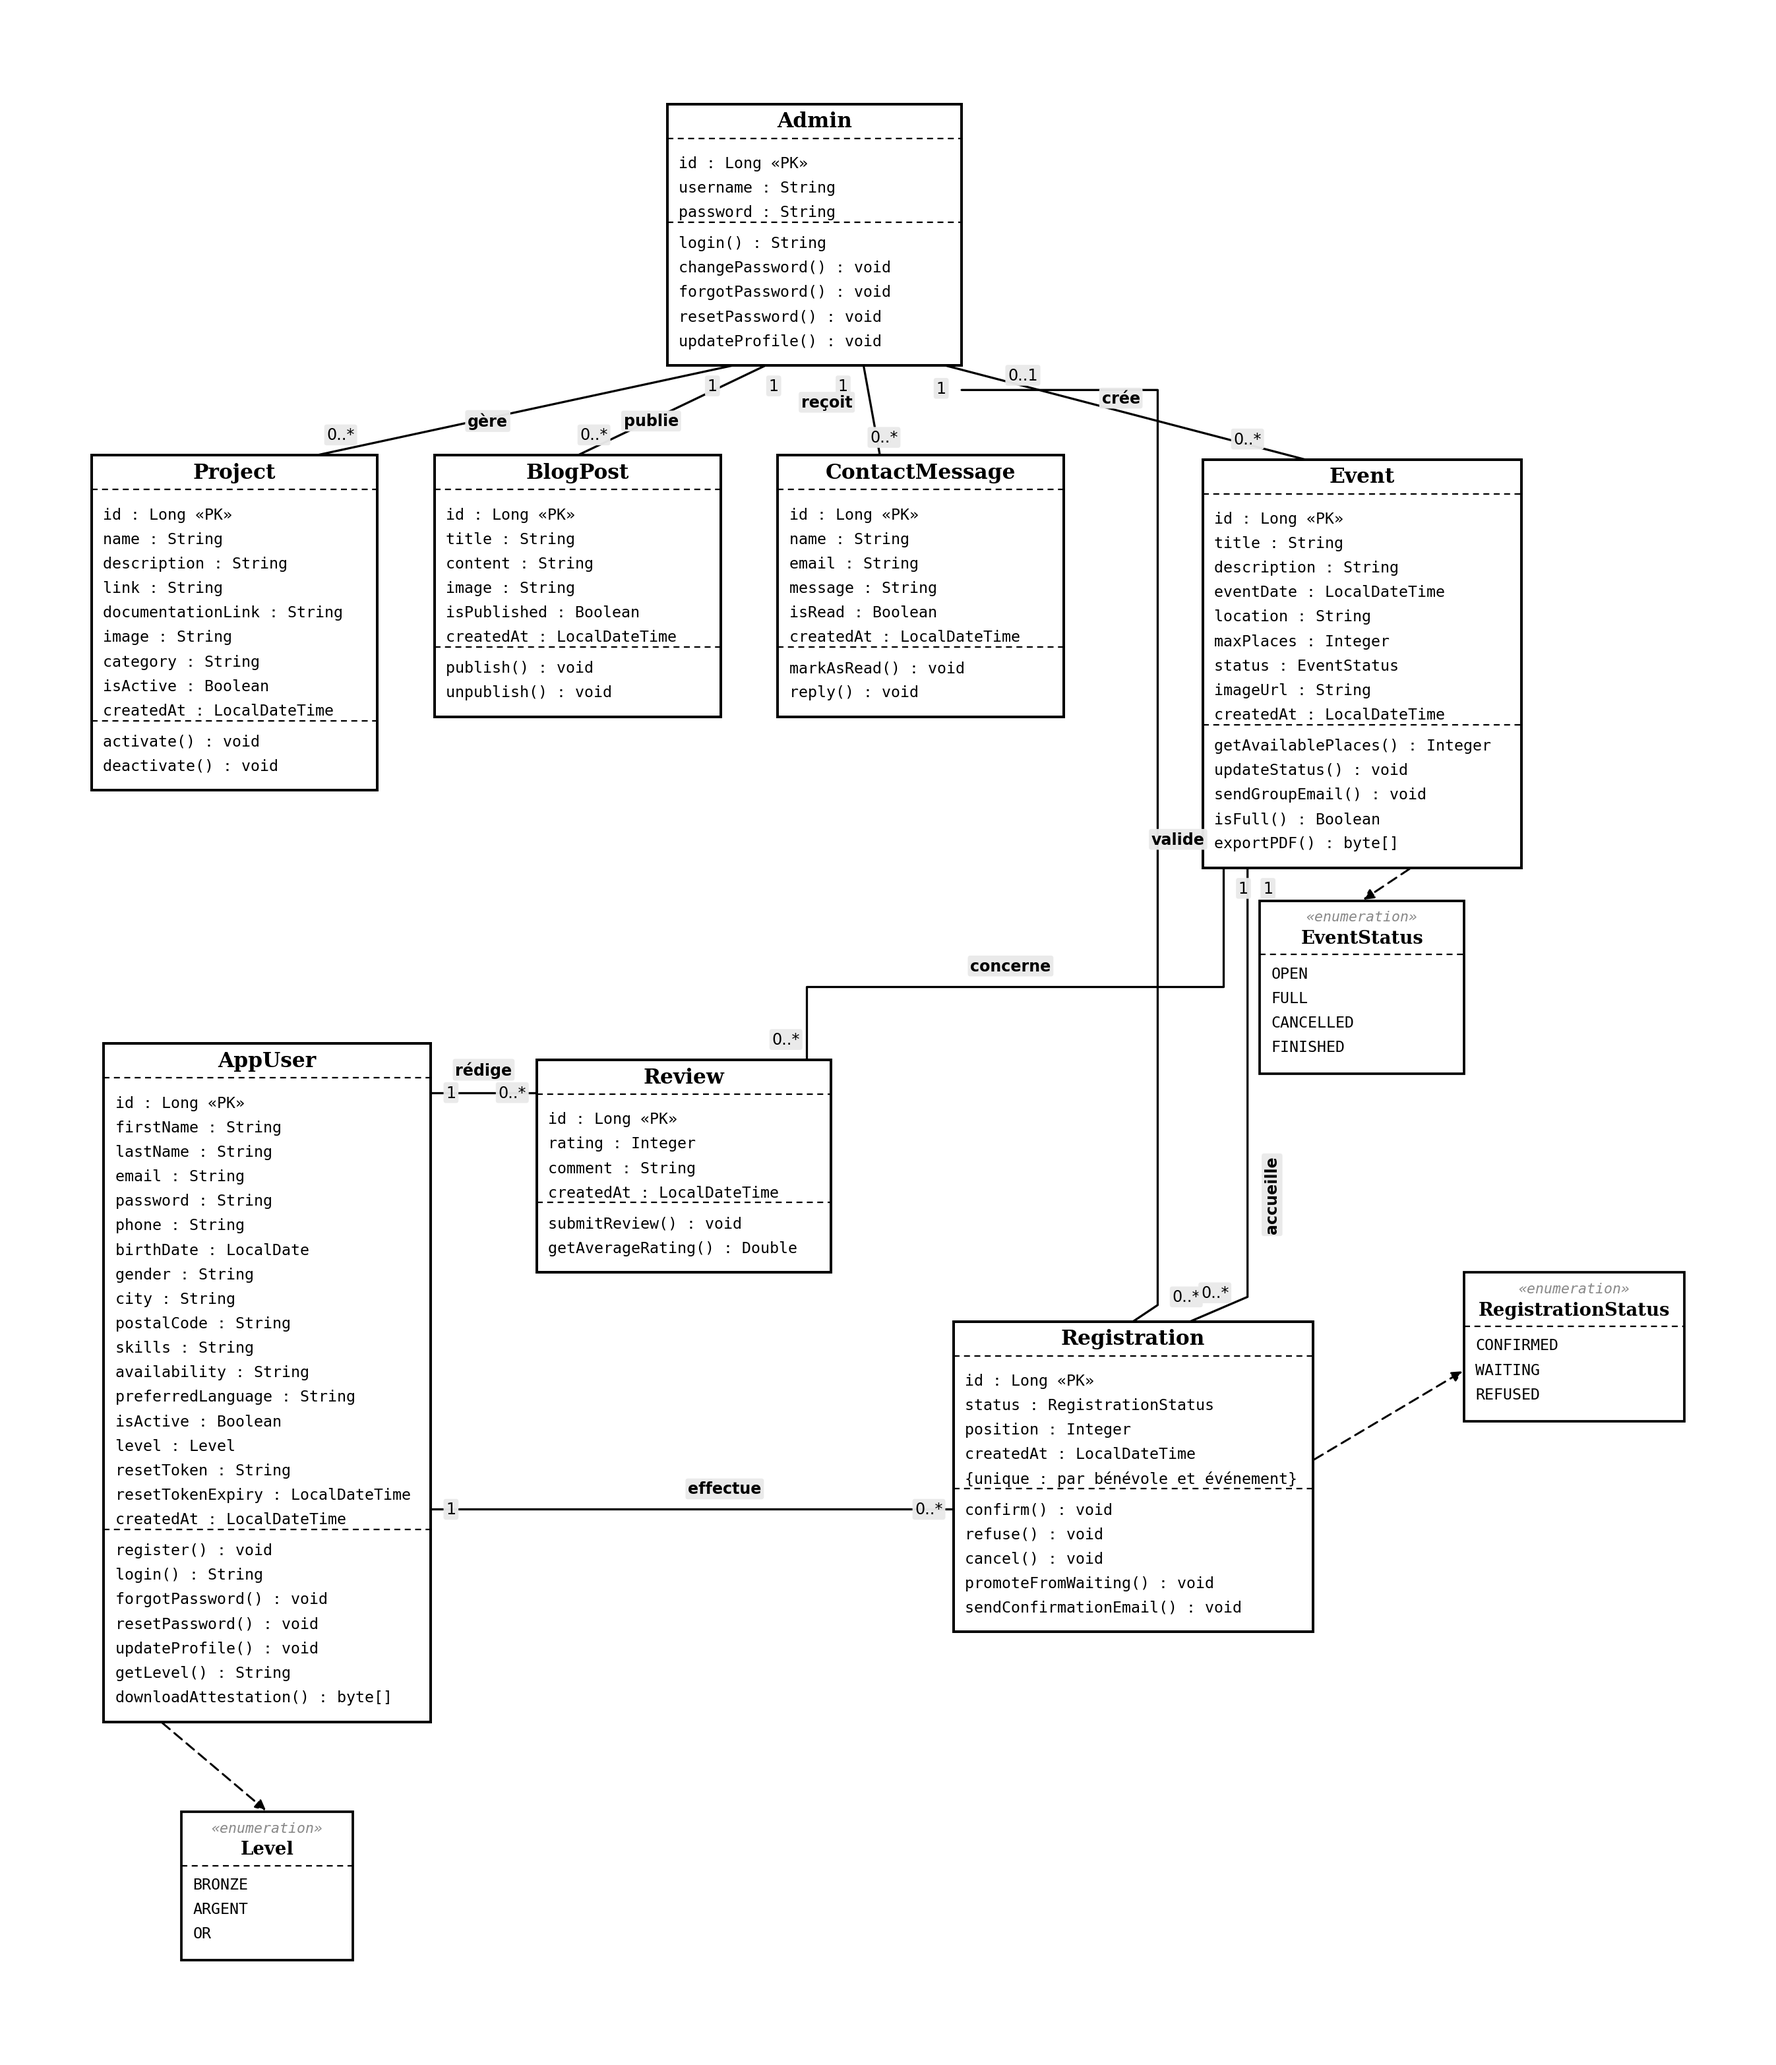
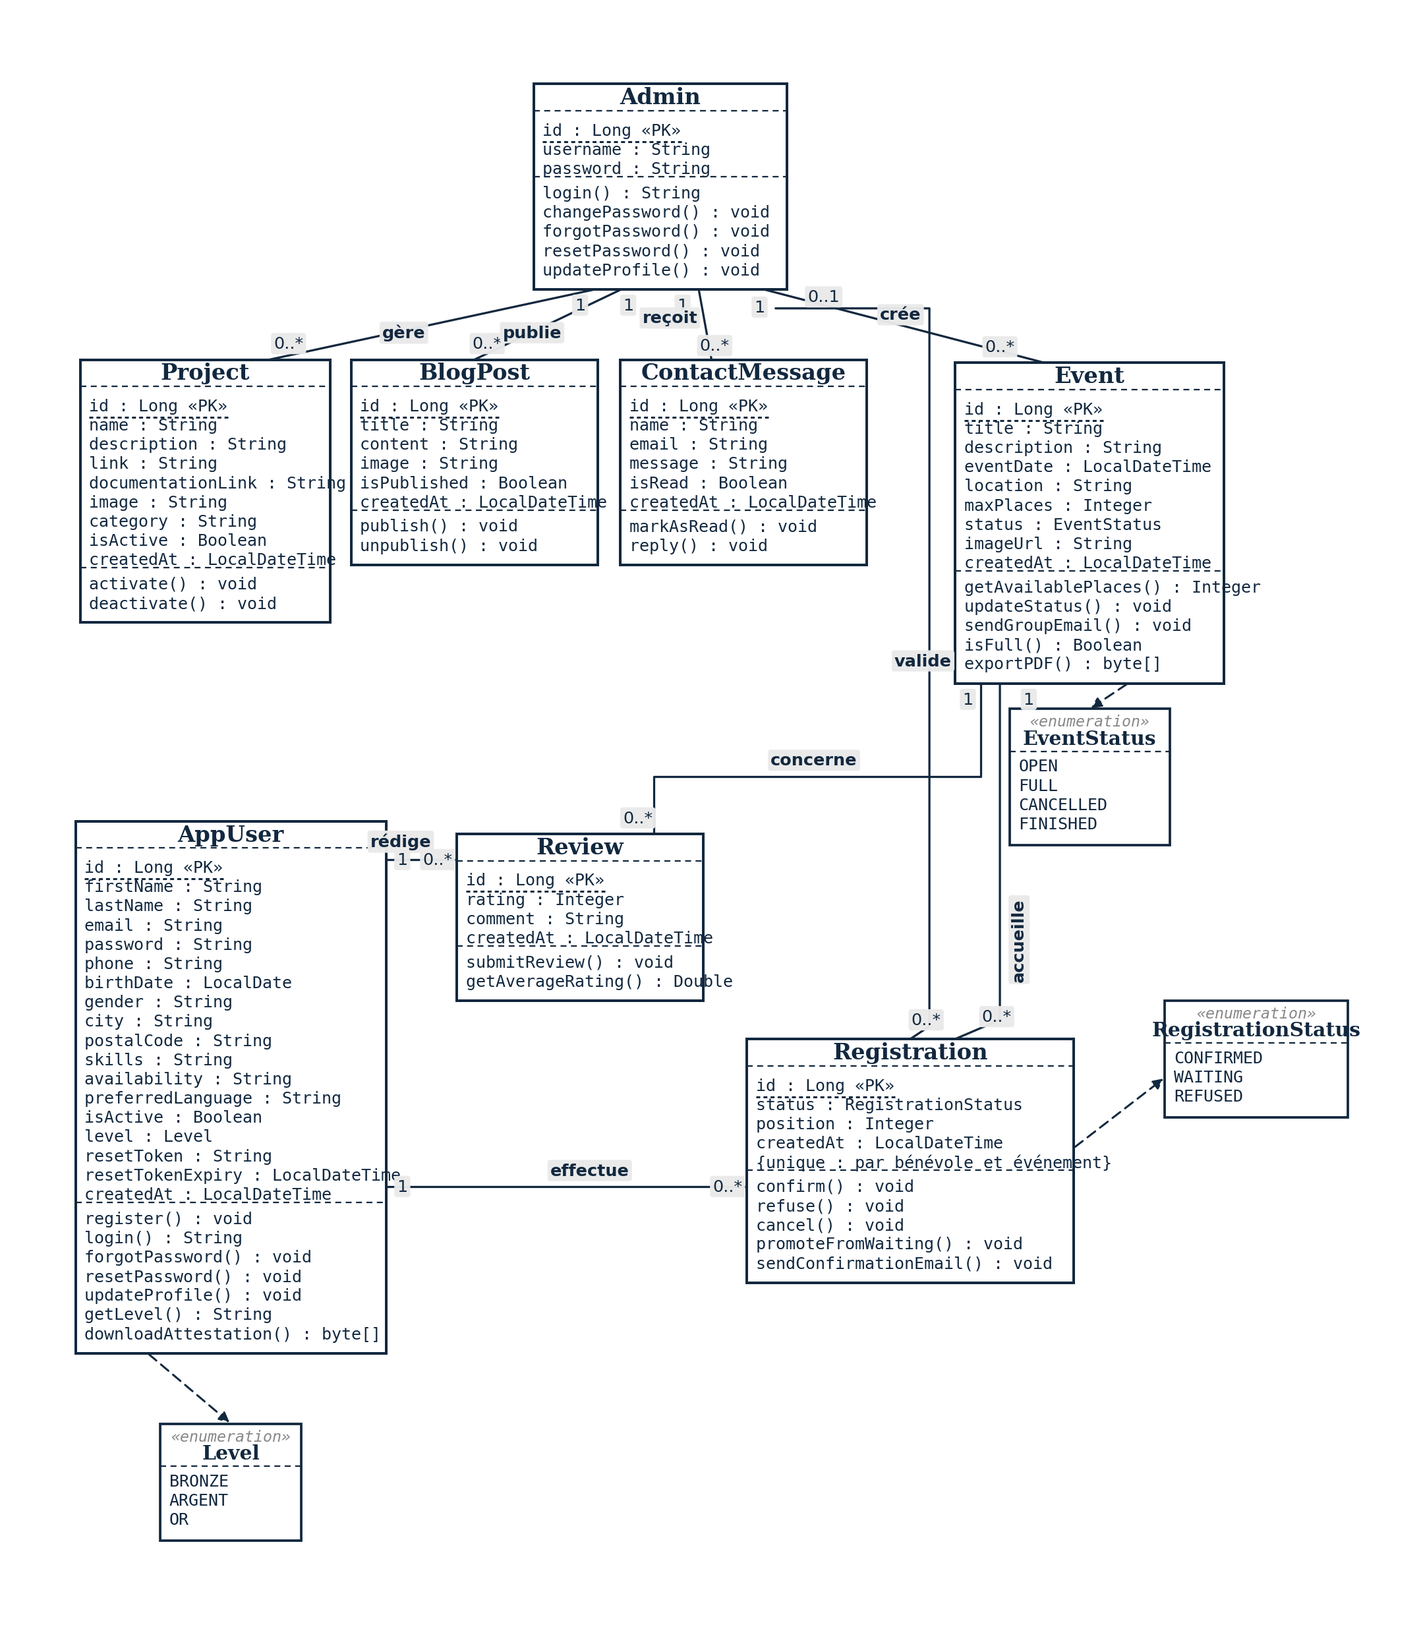
Rend le diagramme de classes lisible et souligne les clés primaires
- Police et largeur des boîtes augmentées pour une lecture confortable (plus de texte minuscule illisible)
- Toutes les lignes d'attributs/méthodes élargies pour ne plus jamais dépasser le cadre de leur classe
- L'attribut identifiant (id : Long «PK») de chaque classe est désormais souligné en pointillés, conformément à la convention UML
- Étiquettes de multiplicité auparavant collées entre elles (Event/EventStatus/Registration) réespacées

diff --git a/memoire_assets/content_persistance.js b/memoire_assets/content_persistance.js
@@ -10,7 +10,7 @@ const persistance = [
   h3("2.2.1. Diagramme de classes"),
   p("Le diagramme de classes ci-dessous modélise la structure statique de l'application : huit entités, leurs attributs, leurs méthodes et les associations qui les relient. Conformément aux consignes, les clés étrangères ne sont pas dupliquées comme attributs dans les classes : seules les associations nommées, portées par les liens entre classes, expriment ces relations. S'agissant d'un sujet personnel construit après le stage, ce diagramme a été soumis à Madame Marie-Christine Namur et validé par elle avant le début du développement ; il n'a plus été modifié depuis, conformément à cette validation."),
   p([rt("Admin, Project, BlogPost et ContactMessage"), rt(" proviennent du site existant, livré durant le stage. "), rt("AppUser, Event, Registration et Review"), rt(" sont les quatre entités créées spécifiquement pour ce TFE. Trois énumérations (EventStatus, Level, RegistrationStatus) typent les attributs à valeurs fermées et sont reliées par une dépendance en trait pointillé aux classes qui les utilisent.")]),
-  ...imgPara(SCR + "diagramme_classes.png", 580, 674, "Figure 2 — Diagramme de classes du module bénévoles et événements"),
+  ...imgPara(SCR + "diagramme_classes.png", 600, 685, "Figure 2 — Diagramme de classes du module bénévoles et événements"),
 
   p("Les neuf associations du diagramme se lisent comme suit : un Admin gère plusieurs Project, publie plusieurs BlogPost, reçoit plusieurs ContactMessage et crée plusieurs Event (multiplicités 1 et 0..*) ; un Admin valide 0 ou plusieurs Registration (multiplicités 0..1 et 0..* côté Registration, puisqu'une inscription n'a pas encore d'administrateur validateur tant qu'elle est en attente) ; un AppUser rédige plusieurs Review et effectue plusieurs Registration ; enfin, un Event accueille plusieurs Registration et concerne plusieurs Review."),
 

diff --git a/memoire_assets/gen_class_diagram.py b/memoire_assets/gen_class_diagram.py
@@ -3,8 +3,8 @@ matplotlib.use("Agg")
 import matplotlib.pyplot as plt
 from matplotlib.patches import Rectangle, FancyArrowPatch
 
-NAVY = "#000000"
-TEXT = "#000000"
+NAVY = "#12283F"
+TEXT = "#12283F"
 LABEL_BG = "#EAEAEA"
 
 FONT_NAME = "DejaVu Serif"
@@ -13,6 +13,8 @@ FONT_MONO = "DejaVu Sans Mono"
 LINE_H = 0.30
 NAME_H = 0.42
 PAD = 0.14
+
+UNDERLINE_TEXTS = []
 
 def class_box(ax, xc, y_top, name, attrs, methods, width, stereotype=None):
     n_attr, n_meth = len(attrs), len(methods)
@@ -24,10 +26,10 @@ def class_box(ax, xc, y_top, name, attrs, methods, width, stereotype=None):
                              edgecolor=NAVY, linewidth=1.6, zorder=4))
     y = y_top
     if stereotype:
-        ax.text(xc, y - 0.22, stereotype, ha="center", va="center", fontsize=9.5,
+        ax.text(xc, y - 0.22, stereotype, ha="center", va="center", fontsize=10,
                  color="#888888", style="italic", family=FONT_MONO, zorder=5)
         y -= 0.42
-    ax.text(xc, y - NAME_H / 2, name, ha="center", va="center", fontsize=12.5,
+    ax.text(xc, y - NAME_H / 2, name, ha="center", va="center", fontsize=13.5,
              fontweight="bold", color=NAVY, family=FONT_NAME, zorder=5)
     y -= NAME_H
     if attrs:
@@ -35,15 +37,17 @@ def class_box(ax, xc, y_top, name, attrs, methods, width, stereotype=None):
     y -= PAD * 0.5
     for a in attrs:
         y -= LINE_H
-        ax.text(x0 + 0.14, y + LINE_H * 0.22, a, ha="left", va="center", fontsize=9.3,
+        t = ax.text(x0 + 0.14, y + LINE_H * 0.22, a, ha="left", va="center", fontsize=10,
                  color=TEXT, family=FONT_MONO, zorder=5)
+        if "«PK»" in a:
+            UNDERLINE_TEXTS.append(t)
     if attrs and methods:
         y -= PAD * 0.4
         ax.plot([x0, x0 + width], [y, y], color=NAVY, linewidth=0.9, linestyle=(0, (4, 3)), zorder=5)
         y -= PAD * 0.15
     for m in methods:
         y -= LINE_H
-        ax.text(x0 + 0.14, y + LINE_H * 0.22, m, ha="left", va="center", fontsize=9.3,
+        ax.text(x0 + 0.14, y + LINE_H * 0.22, m, ha="left", va="center", fontsize=10,
                  color=TEXT, family=FONT_MONO, zorder=5)
     return dict(xc=xc, top=y_top, bot=y_bot, x0=x0, x1=x0 + width, w=width, h=height,
                 mid=(y_top + y_bot) / 2)
@@ -54,20 +58,20 @@ def enum_box(ax, xc, y_top, name, values, width=2.3):
     y_bot = y_top - height
     ax.add_patch(Rectangle((x0, y_bot), width, height, facecolor="white",
                              edgecolor=NAVY, linewidth=1.5, zorder=4))
-    ax.text(xc, y_top - 0.20, "«enumeration»", ha="center", va="center", fontsize=8.6,
+    ax.text(xc, y_top - 0.20, "«enumeration»", ha="center", va="center", fontsize=9.3,
              color="#888888", style="italic", family=FONT_MONO, zorder=5)
-    ax.text(xc, y_top - 0.46, name, ha="center", va="center", fontsize=11,
+    ax.text(xc, y_top - 0.46, name, ha="center", va="center", fontsize=12,
              fontweight="bold", color=NAVY, family=FONT_NAME, zorder=5)
     y = y_top - 0.66
     ax.plot([x0, x0 + width], [y, y], color=NAVY, linewidth=0.9, linestyle=(0, (4, 3)), zorder=5)
     for v in values:
         y -= LINE_H
-        ax.text(x0 + 0.14, y + LINE_H * 0.22, v, ha="left", va="center", fontsize=9.3,
+        ax.text(x0 + 0.14, y + LINE_H * 0.22, v, ha="left", va="center", fontsize=10,
                  color=TEXT, family=FONT_MONO, zorder=5)
     return dict(xc=xc, top=y_top, bot=y_bot, x0=x0, x1=x0 + width, w=width, h=height,
                 mid=(y_top + y_bot) / 2)
 
-def tag(ax, x, y, text, fontsize=9.5, color=TEXT, bold=False, rot=0):
+def tag(ax, x, y, text, fontsize=10.2, color=TEXT, bold=False, rot=0):
     ax.text(x, y, text, ha="center", va="center", fontsize=fontsize, color=color,
              fontweight="bold" if bold else "normal", family="DejaVu Sans", zorder=7, rotation=rot,
              bbox=dict(boxstyle="round,pad=0.16", fc=LABEL_BG, ec="none", alpha=0.97))
@@ -87,37 +91,37 @@ def dependency(ax, p1, p2, rad=0.0):
     ax.add_patch(a)
 
 # ─────────────────────────────────────────────────────────────
-fig, ax = plt.subplots(figsize=(16.5, 17.5))
+fig, ax = plt.subplots(figsize=(13.0, 13.8))
 ax.axis("off")
 ax.set_aspect("equal")
 
 admin = class_box(ax, 9.0, 24.5, "Admin",
     ["id : Long «PK»", "username : String", "password : String"],
     ["login() : String", "changePassword() : void", "forgotPassword() : void",
-     "resetPassword() : void", "updateProfile() : void"], width=3.6)
+     "resetPassword() : void", "updateProfile() : void"], width=3.95)
 
 project = class_box(ax, 1.9, 20.2, "Project",
     ["id : Long «PK»", "name : String", "description : String", "link : String",
      "documentationLink : String", "image : String", "category : String",
      "isActive : Boolean", "createdAt : LocalDateTime"],
-    ["activate() : void", "deactivate() : void"], width=3.5)
+    ["activate() : void", "deactivate() : void"], width=3.9)
 
 blogpost = class_box(ax, 6.1, 20.2, "BlogPost",
     ["id : Long «PK»", "title : String", "content : String", "image : String",
      "isPublished : Boolean", "createdAt : LocalDateTime"],
-    ["publish() : void", "unpublish() : void"], width=3.5)
+    ["publish() : void", "unpublish() : void"], width=3.85)
 
 contact = class_box(ax, 10.3, 20.2, "ContactMessage",
     ["id : Long «PK»", "name : String", "email : String", "message : String",
      "isRead : Boolean", "createdAt : LocalDateTime"],
-    ["markAsRead() : void", "reply() : void"], width=3.5)
+    ["markAsRead() : void", "reply() : void"], width=3.85)
 
 event = class_box(ax, 15.7, 20.15, "Event",
     ["id : Long «PK»", "title : String", "description : String", "eventDate : LocalDateTime",
      "location : String", "maxPlaces : Integer", "status : EventStatus",
      "imageUrl : String", "createdAt : LocalDateTime"],
     ["getAvailablePlaces() : Integer", "updateStatus() : void", "sendGroupEmail() : void",
-     "isFull() : Boolean", "exportPDF() : byte[]"], width=3.9)
+     "isFull() : Boolean", "exportPDF() : byte[]"], width=4.2)
 
 event_status = enum_box(ax, 15.7, 14.75, "EventStatus", ["OPEN", "FULL", "CANCELLED", "FINISHED"], width=2.5)
 
@@ -128,21 +132,21 @@ appuser = class_box(ax, 2.3, 13.0, "AppUser",
      "preferredLanguage : String", "isActive : Boolean", "level : Level",
      "resetToken : String", "resetTokenExpiry : LocalDateTime", "createdAt : LocalDateTime"],
     ["register() : void", "login() : String", "forgotPassword() : void", "resetPassword() : void",
-     "updateProfile() : void", "getLevel() : String", "downloadAttestation() : byte[]"], width=4.0)
+     "updateProfile() : void", "getLevel() : String", "downloadAttestation() : byte[]"], width=4.85)
 
-review = class_box(ax, 7.4, 12.8, "Review",
+review = class_box(ax, 7.75, 12.8, "Review",
     ["id : Long «PK»", "rating : Integer", "comment : String", "createdAt : LocalDateTime"],
-    ["submitReview() : void", "getAverageRating() : Double"], width=3.6)
+    ["submitReview() : void", "getAverageRating() : Double"], width=3.85)
 
-level_enum = enum_box(ax, 2.3, 3.6, "Level", ["BRONZE", "ARGENT", "OR"], width=2.1)
+level_enum = enum_box(ax, 2.3, 3.6, "Level", ["BRONZE", "ARGENT", "OR"], width=2.2)
 
 registration = class_box(ax, 12.9, 9.6, "Registration",
     ["id : Long «PK»", "status : RegistrationStatus", "position : Integer",
      "createdAt : LocalDateTime", "{unique : par bénévole et événement}"],
     ["confirm() : void", "refuse() : void", "cancel() : void",
-     "promoteFromWaiting() : void", "sendConfirmationEmail() : void"], width=4.4)
+     "promoteFromWaiting() : void", "sendConfirmationEmail() : void"], width=5.1)
 
-reg_status = enum_box(ax, 18.3, 10.2, "RegistrationStatus", ["CONFIRMED", "WAITING", "REFUSED"], width=2.7)
+reg_status = enum_box(ax, 18.3, 10.2, "RegistrationStatus", ["CONFIRMED", "WAITING", "REFUSED"], width=2.85)
 
 # ═════════════════ Associations : Admin's 4 direct children ═════════════════
 straight(ax, (8.0, admin['bot']), (2.9, project['top']))
@@ -168,8 +172,8 @@ tag(ax, 12.75, 20.9, "crée", bold=True)
 # ── Admin -valide-> Registration : elbow, corridor x=13.2 (clear of Event/EventStatus) ──
 polyline(ax, [(10.8, 21.0), (13.2, 21.0), (13.2, 9.8), (12.9, registration['top'])])
 tag(ax, 11.55, 21.18, "0..1")
-tag(ax, 13.55, 9.9, "0..*")
-tag(ax, 13.45, 15.5, "valide", bold=True)
+tag(ax, 13.15, 9.9, "0..*")
+tag(ax, 13.1, 15.5, "valide", bold=True)
 
 # ═════════════════ AppUser / Review / Registration cluster ═════════════════
 straight(ax, (appuser['x1'], 12.4), (review['x0'], 12.4))
@@ -179,14 +183,14 @@ tag(ax, 4.95, 12.68, "rédige", bold=True)
 
 # ── Event -concerne-> Review : elbow, corridor x=13.9 (clear of EventStatus) ──
 polyline(ax, [(14.0, event['bot']), (14.0, 13.7), (8.9, 13.7), (8.9, review['top'])])
-tag(ax, 14.25, event['bot'] - 0.25, "1")
+tag(ax, 13.8, event['bot'] - 0.25, "1")
 tag(ax, 8.65, review['top'] + 0.25, "0..*")
 tag(ax, 11.4, 13.95, "concerne", bold=True)
 
 # ── Event -accueille-> Registration : elbow, corridor x=14.3 (clear of EventStatus) ──
 polyline(ax, [(14.3, event['bot']), (14.3, 9.9), (13.6, registration['top'])])
-tag(ax, 14.55, event['bot'] - 0.25, "1")
-tag(ax, 13.9, 9.95, "0..*")
+tag(ax, 14.75, event['bot'] - 0.25, "1")
+tag(ax, 14.25, 9.95, "0..*")
 tag(ax, 14.6, 11.15, "accueille", bold=True, rot=90)
 
 # ── AppUser -effectue-> Registration : elbow along open band below Review ──
@@ -200,7 +204,18 @@ dependency(ax, (16.3, event['bot']), (15.7, event_status['top']))
 dependency(ax, (1.0, appuser['bot']), (2.3, level_enum['top']))
 dependency(ax, (registration['x1'], 7.9), (reg_status['x0'], 9.0))
 
+# ═════════════════ Souligne les attributs «PK» (convention UML) ═════════════════
 plt.tight_layout()
+fig.canvas.draw()
+renderer = fig.canvas.get_renderer()
+inv = ax.transData.inverted()
+for t in UNDERLINE_TEXTS:
+    bbox = t.get_window_extent(renderer=renderer)
+    x0d, y0d = inv.transform((bbox.x0, bbox.y0))
+    x1d, _ = inv.transform((bbox.x1, bbox.y0))
+    ax.plot([x0d, x1d], [y0d - 0.045, y0d - 0.045], color=NAVY, linewidth=1.2,
+             linestyle=(0, (2, 1.6)), zorder=6, solid_capstyle="butt")
+
 plt.savefig("screenshots/diagramme_classes.png", dpi=180, bbox_inches="tight", facecolor="white")
 plt.close()
 print("saved class diagram")
